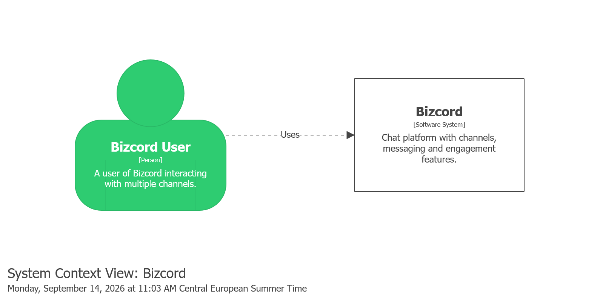
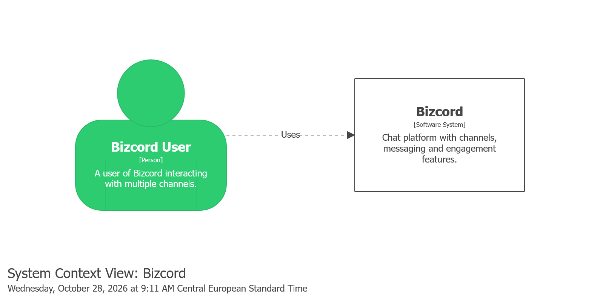
Updated the C4, and wrote the week-44-labs.md

diff --git a/docs/weeks/uge-44-labs.md b/docs/weeks/uge-44-labs.md
@@ -1,0 +1,53 @@
+# Identify failure points
+
+The objective of this task is to identify potential failure points in your microservice.
+
+## Scope
+
+In (preferably) groups, review, discuss and identify failure points in your microservice. Note the failure points that you find in the directory of your microservice in the Github repository. Example:
+
+`Service X sync call to Service Y could hang indenfinitely and block requests.`
+
+## Task
+
+You have to **review** your microservice and identify **potential failure points**. Below are some of the areas of your microservice that you can explore.
+
+## Service dependencies
+
+Find where a failure within one service could impact your service. What happens if a service is unavailable or network calls fail?
+
+## Assuming stable network
+
+Are you missing retries on any client calls? Do you have timeouts set?
+
+## Data stores & external services
+
+What happens if the database is unavailable or slow? What about external services like payment providers?
+
+# Implement reliability measures
+
+Having identified failure points in your microservice, you will now implement reliability measures to mitigate the identified failure points.
+
+## Task
+
+Based on the failure points identified in the previous task, you will now implement reliability measures to mitigate **some** of the failure points. Pick the most critical ones as a starting point.
+
+Please consider the following points when implementing the reliability measures:
+Architecture & Design
+
+What layer of the architecture is most suitable for implementing the reliability measures?
+
+## Policy for mitigating
+
+What resiliency pattern is most suitable for mitigating the failure point?
+
+- Retry
+- Timeout
+- Circuit Breaker
+- Bulkhead
+- Fallback
+- Other (please specify which)
+
+## Testing / Simulation
+
+How will you test that the implemented reliability measures work as expected?
